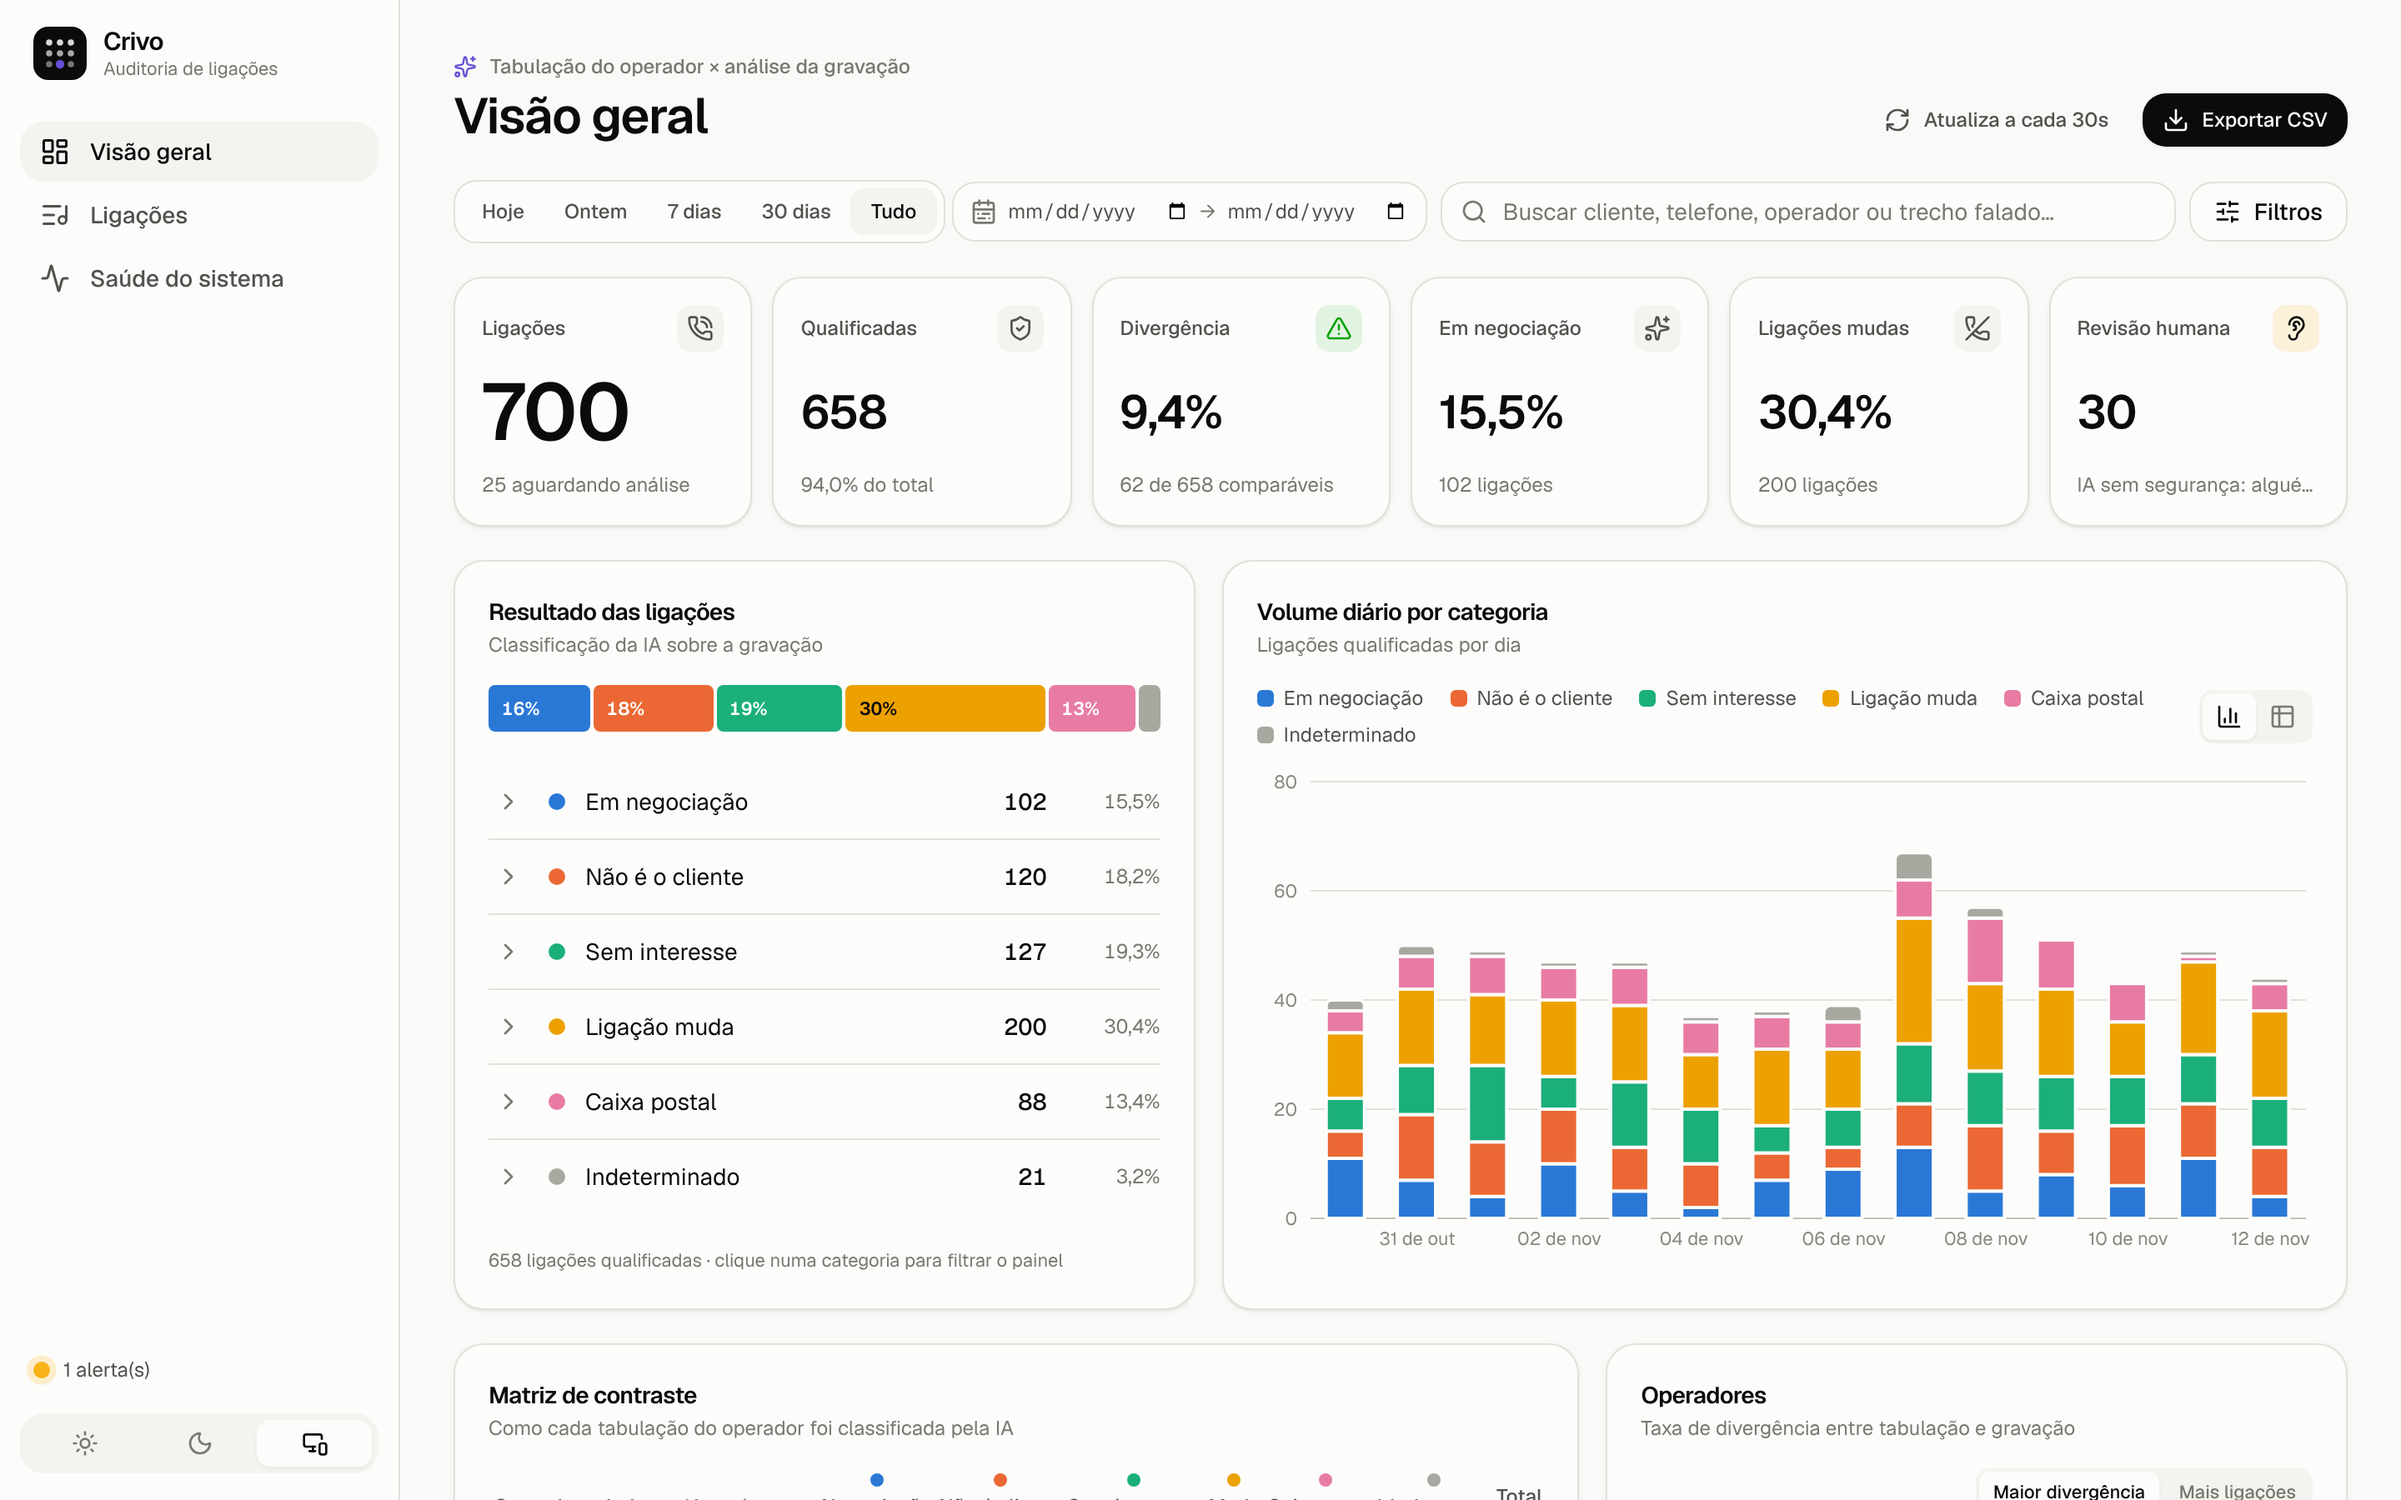
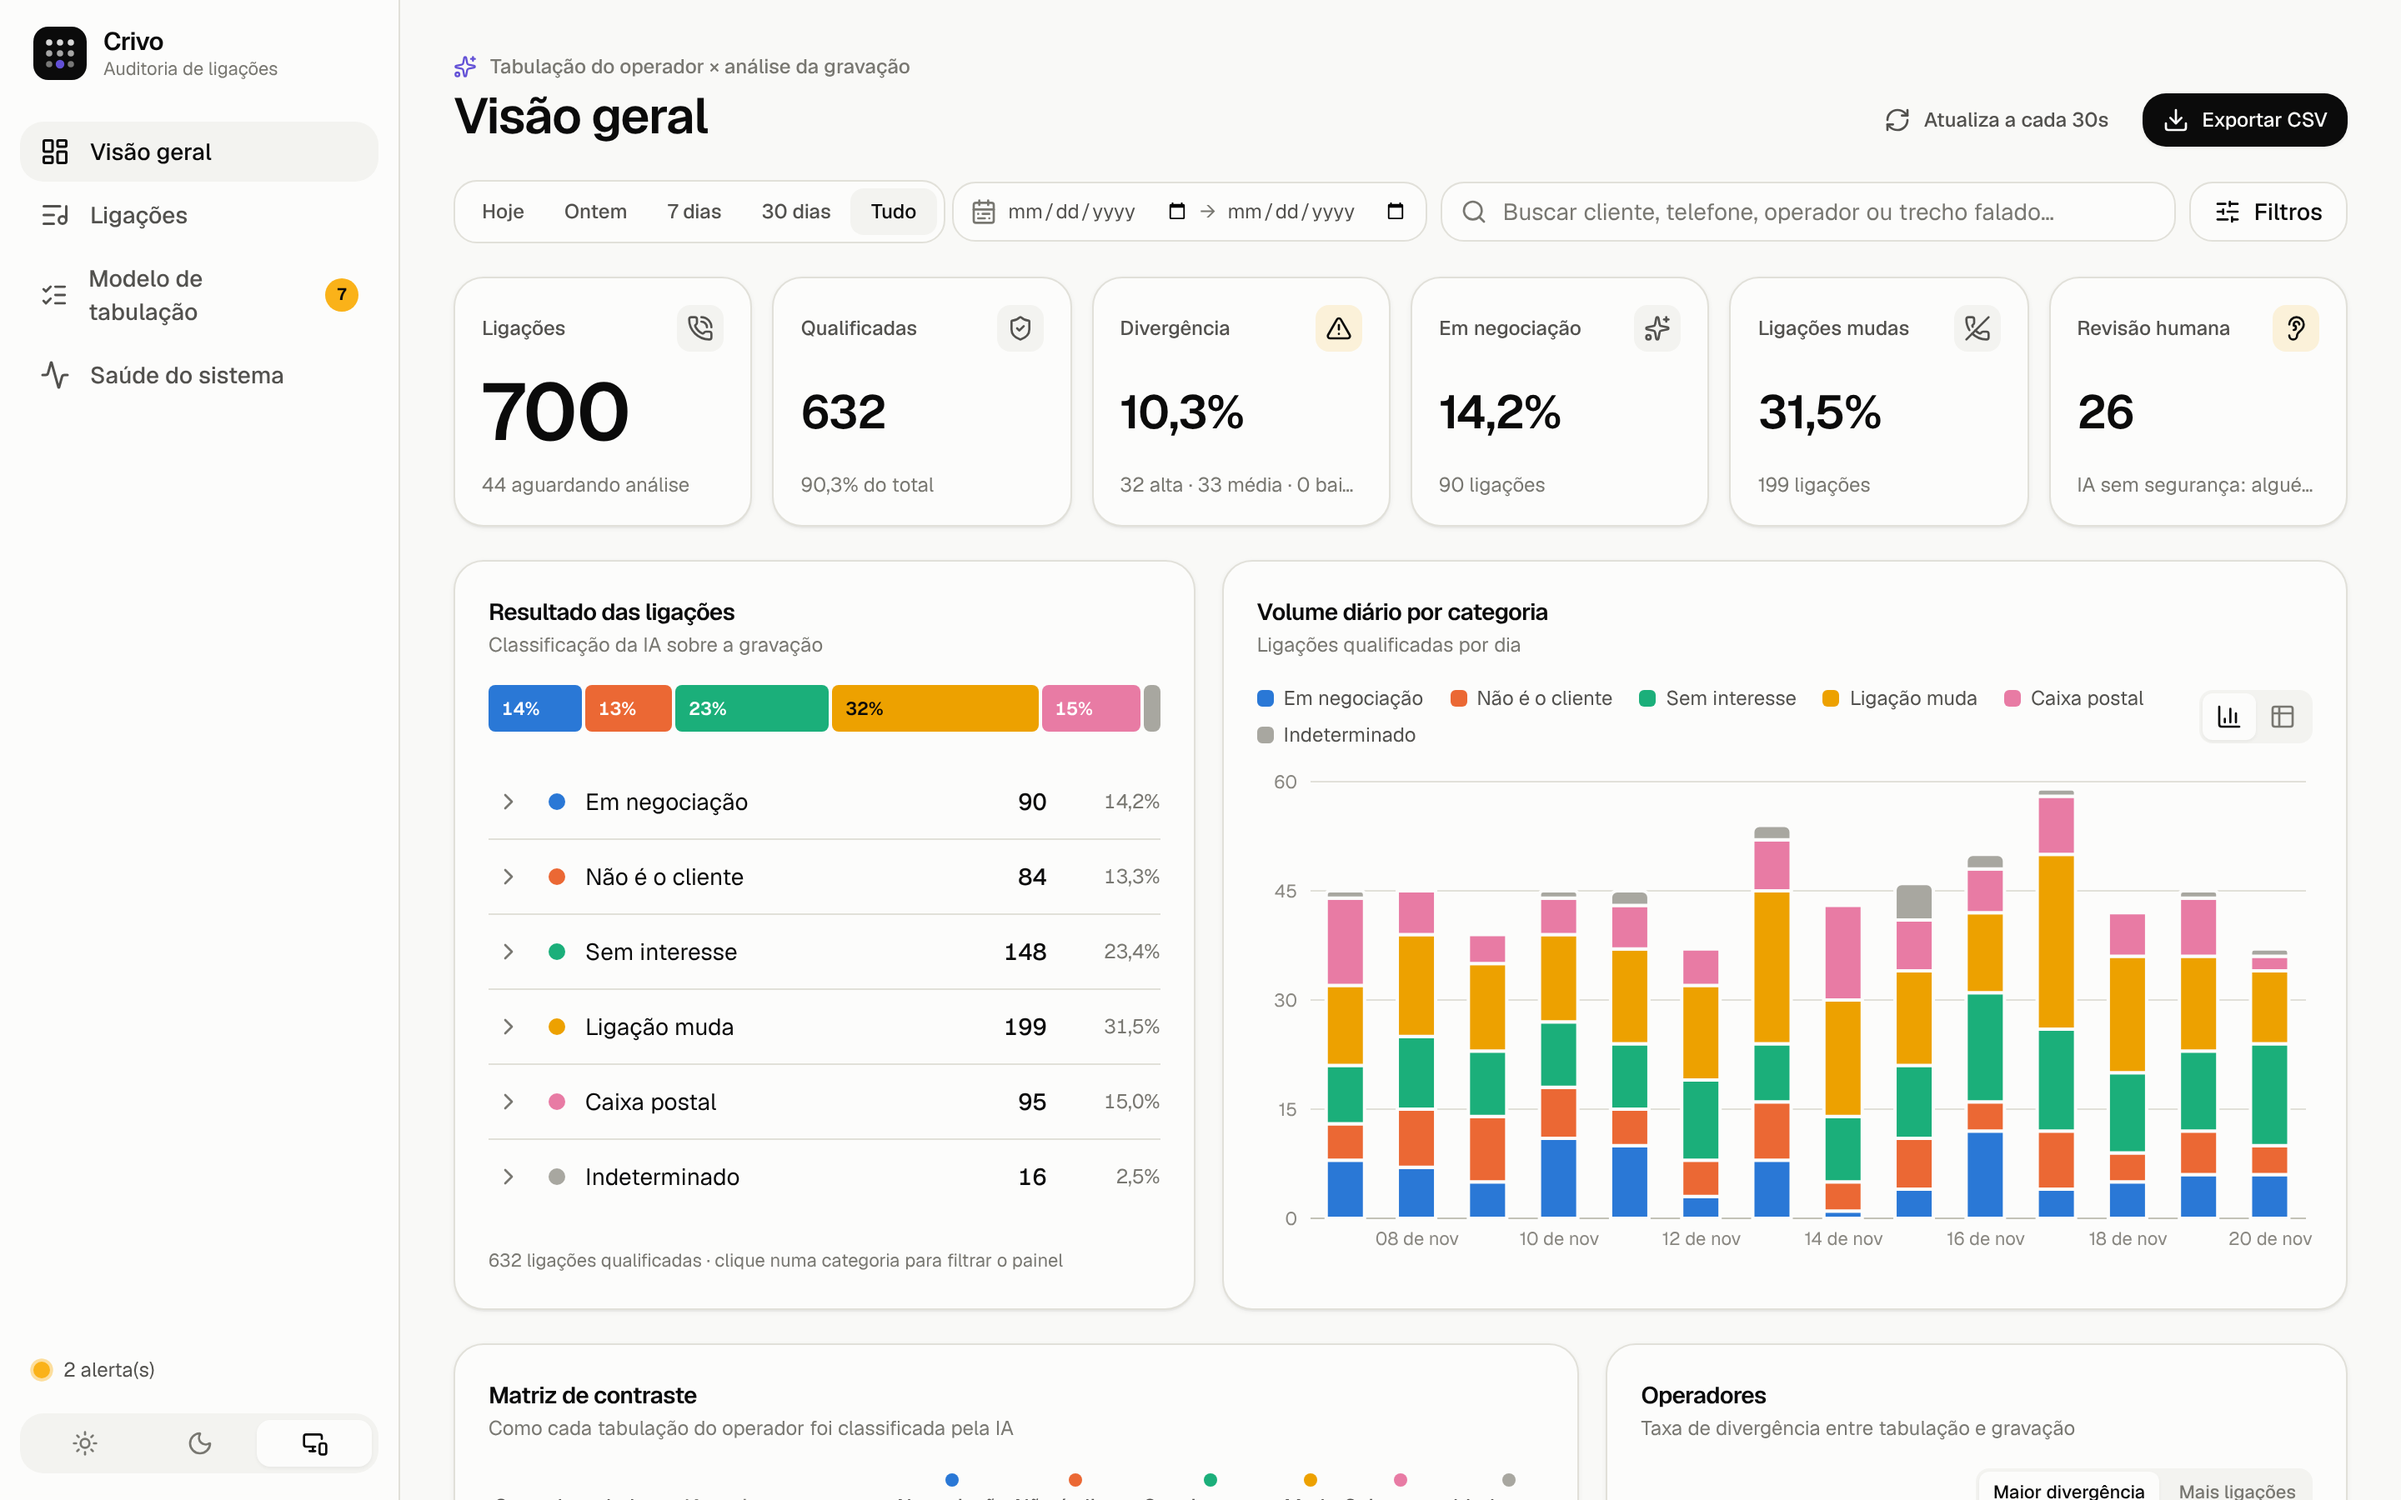
Documenta o modelo de tabulação no README
Claude-Session: https://claude.ai/code/session_019orYbNaqCRQ6Ka1uHmEjgD

diff --git a/README.md b/README.md
@@ -16,12 +16,13 @@ do panorama das ligações, medir a qualidade da tabulação e monitorar a opera
   <img alt="React" src="https://img.shields.io/badge/React-19-61DAFB?logo=react&logoColor=black" />
   <img alt="Tailwind CSS" src="https://img.shields.io/badge/Tailwind-3-06B6D4?logo=tailwindcss&logoColor=white" />
   <img alt="OpenAI" src="https://img.shields.io/badge/IA-Whisper%20%2B%20GPT-412991?logo=openai&logoColor=white" />
-  <img alt="Testes" src="https://img.shields.io/badge/testes-69%20passando-0ca30c" />
+  <img alt="Testes" src="https://img.shields.io/badge/testes-111%20passando-0ca30c" />
 </p>
 
 <a href="#-começando">Começando</a> ·
 <a href="#-como-funciona">Como funciona</a> ·
 <a href="#%EF%B8%8F-configuração">Configuração</a> ·
+<a href="#%EF%B8%8F-modelo-de-tabulação">Modelo de tabulação</a> ·
 <a href="#-custo-de-ia">Custo de IA</a> ·
 <a href="#-api">API</a> ·
 <a href="#%EF%B8%8F-roadmap">Roadmap</a>
@@ -95,9 +96,25 @@ Ligações sem nenhuma fala são resolvidas **sem IA**. Cada chamada paga é reg
 
 </td>
 </tr>
+<tr>
+<td valign="top">
+
+### 🗂 Modelo de tabulação
+Cada tabulação do Argus entra num catálogo com um significado **sugerido**; a equipe confirma ou corrige na tela (ou por planilha), e as ligações são recalculadas na hora.
+
+</td>
+<td valign="top">
+
+### 🚦 Gravidade e LGPD
+Toda divergência tem gravidade **alta, média ou baixa**. O pedido de "não ligar mais" é detectado na ligação e, se não for tabulado, vira divergência alta.
+
+</td>
+</tr>
 </table>
 
 <div align="center">
+<img src="docs/img/modelo-tabulacao.png" alt="Modelo de tabulação" width="100%" />
+<br/><br/>
 <img src="docs/img/matriz-operadores.png" alt="Matriz de contraste e ranking de operadores" width="100%" />
 <br/><br/>
 <img src="docs/img/ligacao-detalhe.png" alt="Detalhe de uma ligação divergente" width="49%" />
@@ -151,9 +168,9 @@ flowchart LR
    - Se a IA falhar, a ligação fica com **erro** e volta para a fila; o sistema nunca inventa uma categoria.
    - A transcrição já obtida é preservada, e reanalisar uma ligação não paga a transcrição de novo.
    - Se o áudio for ruim, a IA pode responder "Indeterminado" em vez de chutar.
-4. **Cruzamento.** O relatório detalhado da discadora traz operador, tronco, sinalização SIP e tabulação. O Crivo compara a tabulação do operador com a classificação da IA e chega a um de três resultados:
+4. **Cruzamento.** O relatório detalhado da discadora traz operador, tronco, sinalização SIP e tabulação. O Crivo compara a tabulação do operador com a classificação da IA usando o [modelo de tabulação](#%EF%B8%8F-modelo-de-tabulação) e chega a um de três resultados:
    - **coerente**;
-   - **divergente**, só quando a IA tem segurança (confiança a partir de `CONFIANCA_MINIMA_DIVERGENCIA`);
+   - **divergente** (com gravidade), só quando a IA tem segurança (confiança a partir de `CONFIANCA_MINIMA_DIVERGENCIA`);
    - **revisão humana**, quando a IA não teve segurança ou o áudio contradiz a tabulação.
 5. **Identidade.** Se alguém nega ser o titular mas o mesmo telefone e nome já se confirmaram antes, a ligação vira *"É o cliente (identificou-se em outras ligações)"*.
 6. **Monitoramento.** Cada etapa registra sucesso ou falha. O painel de saúde transforma isso em alertas.
@@ -248,6 +265,41 @@ Tudo fica no arquivo **`.env` na raiz** do repositório (modelo em [`.env.exampl
 
 ---
 
+## 🗂 Modelo de tabulação
+
+A tabulação do Argus é texto livre e, muitas vezes, mais genérica que a taxonomia (ex.: "Muda / Caixa postal"). O modelo de tabulação diz, para cada tabulação, o que ela significa:
+
+| Campo | Significado |
+|---|---|
+| **Tipo** | `resultado` (afirma o que aconteceu), `nao_tabulado` (ex.: tempo pós-atendimento: diverge se a IA ouviu conversa) ou `ignorar` (tabulação de sistema: nunca diverge) |
+| **Categorias** | As categorias da IA que **confirmam** a tabulação. Pode ser mais de uma |
+| **Subcategoria** | Opcional. Se definida, subcategoria diferente vira divergência baixa |
+| **Registra "não ligar"** | É a tabulação que o operador deve usar quando o cliente pede para não receber mais ligações |
+
+**Como alimentar:**
+- **Automático:** toda tabulação nova (webhook, polling, relatório da discadora) entra com um significado *sugerido* pelo texto, e o menu mostra quantas faltam confirmar. Quando o Argus envia o código da tabulação (`idTabulacao`), ele é guardado e passa a ter prioridade sobre o texto.
+- **Pela tela:** *Modelo de tabulação* → confirmar ou corrigir. Ao salvar, as ligações daquela tabulação são recalculadas.
+- **Por planilha:** exporte, edite e importe. Colunas: `tabulacao`, `tipo`, `categorias` (separadas por `|`, pelo nome ou pelo código), `subcategoria`, `nao_ligar` (sim/não) e, opcionalmente, `id_argus`.
+
+> [!IMPORTANT]
+> Enquanto uma tabulação estiver só *sugerida*, as divergências dela usam um palpite do sistema. A matriz e o detalhe da ligação avisam quando é o caso. Confirme as tabulações mais usadas primeiro.
+
+### Gravidade da divergência
+
+| Gravidade | Quando |
+|---|---|
+| 🔴 **Alta** | Envolve negociação (oportunidade perdida ou negociação que não existiu); houve conversa, mas foi tabulada como muda/caixa postal; ou o cliente pediu para não ligar e a tabulação não registra o pedido |
+| 🟠 **Média** | Resultado de conversa trocado (ex.: "sem interesse" × "não é o cliente"); tabulou conversa e não houve; ou não tabulou uma conversa |
+| ⚪ **Baixa** | Confusão entre muda e caixa postal, ou só a subcategoria diferente |
+
+### Pedido de não ligar (LGPD)
+
+A IA marca quando quem atendeu **pede para não receber mais ligações** (recusa simples não conta). Isso vale para qualquer categoria e aparece com o selo *não ligar*, no filtro e na aba própria de "Para revisar agora".
+
+O pedido só conta contra o operador se existir no Argus uma tabulação marcada como *Registra "não ligar"*. Sem ela, o operador não teria como registrar.
+
+---
+
 ## 💸 Custo de IA
 
 Cerca de 90% do custo é a **transcrição**, cobrada por minuto de áudio; a classificação é a parte barata. O Crivo audita **100% das ligações** e reduz o gasto assim:
@@ -324,8 +376,12 @@ python -m scripts.comparar_transcricao --n 50 --modelos gpt-4o-mini-transcribe,g
 | `POST` | `/api/v1/sync/argus` | Polling/backfill manual |
 | `POST` | `/api/v1/sync/process` | Envia pendentes e com erro para a fila |
 | `POST` | `/api/v1/sync/reprocess/{id}` | Reanalisa uma ligação |
+| `GET` | `/api/v1/tabulacoes` | Modelo de tabulação com uso e divergência por tabulação |
+| `PUT` | `/api/v1/tabulacoes/{id}` | Confirma/corrige uma tabulação e recalcula as ligações |
+| `GET` | `/api/v1/tabulacoes/exportar` | Modelo em CSV |
+| `POST` | `/api/v1/tabulacoes/importar` | Importa o modelo de uma planilha CSV |
 
-**Filtros** (os mesmos em listagem, exportação e analytics, então cards, gráficos e tabela sempre batem): `data_inicio`, `data_fim`, `categoria`, `subcategoria`, `operador`, `tronco`, `campanha`, `telefone`, `tipo_agente`, `tipo_discagem`, `desligado_por`, `divergencia`, `revisao`, `status`, `q`.
+**Filtros** (os mesmos em listagem, exportação e analytics, então cards, gráficos e tabela sempre batem): `data_inicio`, `data_fim`, `categoria`, `subcategoria`, `operador`, `tronco`, `campanha`, `telefone`, `tipo_agente`, `tipo_discagem`, `desligado_por`, `divergencia`, `gravidade`, `nao_ligar`, `revisao`, `status`, `q`. A listagem aceita `ordenar=gravidade`.
 
 </details>
 
@@ -337,12 +393,12 @@ python -m scripts.comparar_transcricao --n 50 --modelos gpt-4o-mini-transcribe,g
 |---|---|
 | 🔵 **Em negociação** | Proposta em andamento · Aceite verbal · Agendamento de retorno · Migração para WhatsApp |
 | 🟠 **Não é o cliente** | É o cliente (histórico) · Engano direto · Terceiro/família · Chip novo · Titular falecido · Reclamação recorrente |
-| 🟢 **Sem interesse** | Cliente revoltado · Cliente calmo · Já possui / sem margem |
-| 🟡 **Ligação muda** | Atendente solitário · Cliente solitário · Falha de comunicação · Mudo total |
+| 🟢 **Sem interesse** | Cliente revoltado · Cliente calmo · Já possui / sem margem · Já é cliente |
+| 🟡 **Ligação muda** | Atendente solitário · Cliente solitário · Falha de comunicação · Mudo total · Desligou na abertura · Ligação caiu |
 | 🩷 **Caixa postal** | URA da operadora · Pós-bip · Fax/modem · Número inexistente |
 | ⚪ **Indeterminado** | Sem dados suficientes · Áudio inaudível |
 
-Fonte única: [`backend/app/taxonomy.py`](backend/app/taxonomy.py).
+Fonte única: [`backend/app/taxonomy.py`](backend/app/taxonomy.py). Esta é a **versão 2**; cada ligação guarda a versão com que foi qualificada. O pedido de "não ligar" é uma marcação à parte, não uma categoria.
 
 ---
 
@@ -400,10 +456,11 @@ cd frontend && npm run typecheck && npm run build
 - [ ] **Custo de IA, etapa 3.**
   - Avaliar transcrição própria (faster-whisper) ou provedor mais barato.
   - Conversa em ordem cronológica no estéreo (exige marcação de tempo na transcrição).
-- [ ] **Semana 2: modelo de tabulação.**
-  - Tabela de equivalência por ID de tabulação do Argus, editável na tela.
-  - Taxonomia v2: desligou na abertura, pediu para não ligar (LGPD), ligação caiu, já é cliente.
+- [x] **Semana 2: modelo de tabulação.**
+  - Catálogo de tabulações (por código do Argus ou texto), editável na tela e por planilha.
+  - Taxonomia v2: desligou na abertura, ligação caiu, já é cliente; pedido de não ligar (LGPD).
   - Divergência por gravidade.
+  - Pendente: confirmar as tabulações reais com a lista oficial do Argus.
 - [ ] **Semana 3: medir a IA.**
   - Revisão humana pela tela.
   - Acurácia e matriz de confusão por categoria, usando o CSV de escuta como gabarito.
